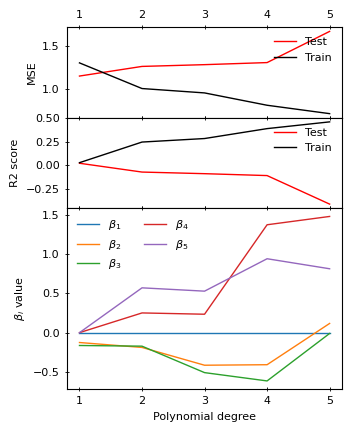
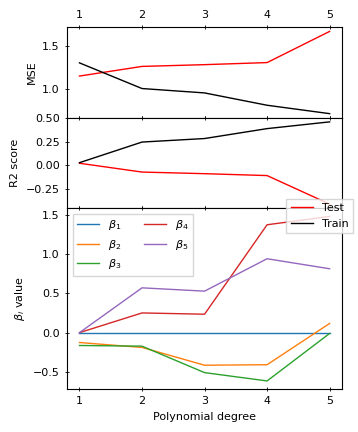
Added Lasso regression

diff --git a/project1/src.py b/project1/src.py
@@ -7,7 +7,7 @@ from sklearn.model_selection import train_test_split
 from sklearn.metrics import mean_squared_error as MSE, r2_score as R2
 from sklearn.preprocessing import PolynomialFeatures, StandardScaler
 from sklearn.pipeline import Pipeline
-from sklearn.linear_model import LinearRegression, Ridge
+from sklearn.linear_model import LinearRegression, Ridge, Lasso
 
 plt.rcParams.update({
     'lines.linewidth': 1,
@@ -23,7 +23,7 @@ plt.rcParams.update({
     'xtick.labelsize': 8,
     'ytick.labelsize': 8,
     'legend.fontsize': 8,
-    'legend.frameon': False
+    'legend.fancybox': False
 })
 
 def set_size(width='col', scale=1, subplot=(1, 1)):
@@ -121,7 +121,13 @@ class Regression:
         self.r2_ridge_train = np.zeros(n_lambda)
         self.r2_ridge_test = np.zeros(n_lambda)
 
+        self.mse_lasso_train = np.zeros(n_lambda)
+        self.mse_lasso_test = np.zeros(n_lambda)
+        self.r2_lasso_train = np.zeros(n_lambda)
+        self.r2_lasso_test = np.zeros(n_lambda)
+
         beta = []
+        beta_lasso = []
 
         for i in range(n_lambda):
             lambda_i = self.lambdas[i]
@@ -140,10 +146,29 @@ class Regression:
             self.mse_ridge_test[i] = mse_test
             self.r2_ridge_train[i] = r2_train
             self.r2_ridge_test[i] = r2_test
+
+            lasso_reg = Lasso(lambda_i)
+            lasso_reg.fit(X_train, y_train)
+
+            y_tilde_lasso = lasso_reg.predict(X_train)
+            y_predict_lasso = lasso_reg.predict(X_test)
+
+            beta_lasso.append(lasso_reg.coef_)
+
+            mse_train_lasso = MSE(y_train, y_tilde_lasso)
+            mse_test_lasso = MSE(y_test, y_predict_lasso)
+            r2_train_lasso = R2(y_train, y_tilde_lasso)
+            r2_test_lasso = R2(y_test, y_predict_lasso)
+
+            self.mse_lasso_train[i] = mse_train_lasso
+            self.mse_lasso_train[i] = mse_test_lasso
+            self.r2_lasso_train[i] = r2_train_lasso
+            self.r2_lasso_test[i] = r2_test_lasso
         
         self.beta_ridge = np.array(beta)
+        self.beta_lasso = np.array(beta_lasso)
 
-    def plot_evolution(self, model, figname):
+    def plot_evolution(self, model, figname, add_lasso=True):
 
         if model == 'OLS':
             mse_train, mse_test = self.mse_ols_train, self.mse_ols_test
@@ -151,25 +176,63 @@ class Regression:
             beta = self.beta_ols; x = self.poly_degs
             x_label = 'Polynomial degree'
         
-        elif model == 'ridge':
+        elif model == 'ridge' and add_lasso:
             mse_train, mse_test = self.mse_ridge_train, self.mse_ridge_test
             r2_train, r2_test = self.r2_ridge_train, self.r2_ridge_test
-            beta = self.beta_ridge; x = self.lambdas
-            x_label = r'$\lambda$'
+            beta = self.beta_ridge; x = np.log10(self.lambdas)
+
+            mse_train_lasso, mse_test_lasso = self.mse_lasso_train, self.mse_lasso_test
+            r2_train_lasso, r2_test_lasso = self.r2_lasso_train, self.r2_lasso_test
+            beta_lasso = self.beta_lasso; x = np.log10(self.lambdas)
+
+            x_label = r'$\log_{10}\,\lambda$'
+
+            grid_spec = dict(hspace=0)
+            fig, ax = plt.subplots(2, 1, figsize=set_size(subplot=(2, 1)), gridspec_kw=grid_spec)
+
+            ax[0].plot(x, mse_test, color='red', label='Ridge test')
+            ax[0].plot(x, mse_test_lasso, ls='dashed', color='red', label='Lasso test')
+            ax[0].plot(x, mse_train, color='black', label='Ridge train')
+            ax[0].plot(x, mse_train_lasso, ls='dashed', color='black', label='Ridge train')
+            ax[0].set_ylabel('MSE')
+            ax[0].xaxis.set_tick_params(which='both', top=True, labeltop=True, bottom=False, labelbottom=False)
+
+            ax[1].plot(x, r2_test, color='red')
+            ax[1].plot(x, r2_test_lasso, ls='dashed', color='red')
+            ax[1].plot(x, r2_train, color='black')
+            ax[1].plot(x, r2_train_lasso, ls='dashed', color='black')
+            ax[1].set_ylabel('R2 score')
+            ax[1].set_xlabel(x_label)
+
+            fig.legend(loc='center right')
+            fig.tight_layout()
+
+            return
+        
+        elif model == 'ridge' and not add_lasso:
+            mse_train, mse_test = self.mse_ridge_train, self.mse_ridge_test
+            r2_train, r2_test = self.r2_ridge_train, self.r2_ridge_test
+            beta = self.beta_ridge; x = np.log10(self.lambdas)
+
+            x_label = r'$\log_{10}\,\lambda$'
+        
+        elif model == 'lasso':
+            mse_train, mse_test = self.mse_lasso_train, self.mse_lasso_test
+            r2_train, r2_test = self.r2_lasso_train, self.r2_lasso_test
+            beta = self.beta_lasso; x = np.log10(self.lambdas)
+            x_label = r'$\log_{10}\,\lambda$'
         
         grid_spec = dict(hspace=0, height_ratios=[1, 1, 0, 2])
         fig, ax = plt.subplots(4, 1, figsize=set_size(subplot=(2, 1)), gridspec_kw=grid_spec)
 
-        ax[0].plot(x, mse_test, lw=1, color='red', label='Test')
-        ax[0].plot(x, mse_train, lw=1, color='black', label='Train')
+        line1, = ax[0].plot(x, mse_test, color='red', label='Test')
+        line2, = ax[0].plot(x, mse_train, color='black', label='Train')
         ax[0].set_ylabel('MSE')
-        ax[0].legend()
         ax[0].xaxis.set_tick_params(which='both', top=True, labeltop=True, bottom=True, labelbottom=False)
 
-        ax[1].plot(x, r2_test, lw=1, color='red', label='Test')
-        ax[1].plot(x, r2_train, lw=1, color='black', label='Train')
+        ax[1].plot(x, r2_test, color='red', label='Test')
+        ax[1].plot(x, r2_train, color='black', label='Train')
         ax[1].set_ylabel('R2 score')
-        ax[1].legend()
         ax[1].xaxis.set_tick_params(top=True, labeltop=False, bottom=True, labelbottom=False)
 
         ax[2].set_visible(False)
@@ -177,24 +240,21 @@ class Regression:
         if model == 'OLS':
 
             for i in range(len(beta[:, 0])):
-                ax[3].plot(x, beta[:, i], lw=1, label=r'$\beta$' + f'$_{i+1}$')
+                ax[3].plot(x, beta[:, i], label=r'$\beta$' + f'$_{i+1}$')
             
             if not figname == 'test':
                 ax[3].legend(ncol=2)
         
-        elif model =='ridge':
+        elif model =='ridge' or model == 'lasso':
 
             for i in range(len(beta[0, :])):
                 ax[3].plot(x, beta[:, i])
-            
-            ax[0].set_xscale('log')
-            ax[1].set_xscale('log')
-            ax[3].set_xscale('log')
 
         ax[3].set_ylabel(r'$\beta_i$ value')
         ax[3].xaxis.set_tick_params(top=True, labeltop=False, bottom=True, labelbottom=True)
         ax[3].set_xlabel(x_label)
 
+        fig.legend(loc='center right', handles=[line1, line2])
         fig.tight_layout()
         fig.savefig('figures/' + model + '_' + figname + '.pdf', bbox_inches='tight')
         fig.savefig('figures/' + model + '_' + figname + '.png', bbox_inches='tight')

diff --git a/project1/project1.py b/project1/project1.py
@@ -13,6 +13,7 @@ z = frankes_function(x, y)
 reg = Regression(x, y, z)
 reg.OLS(5)
 reg.plot_evolution('OLS', 'franke-test')
-reg.ridge(-1, 4, 5, 1000)
+reg.ridge(-2, 3, 5, 1000)
 reg.plot_evolution('ridge', 'franke-test')
+reg.plot_evolution('lasso', 'franke-test')
 plt.show()
